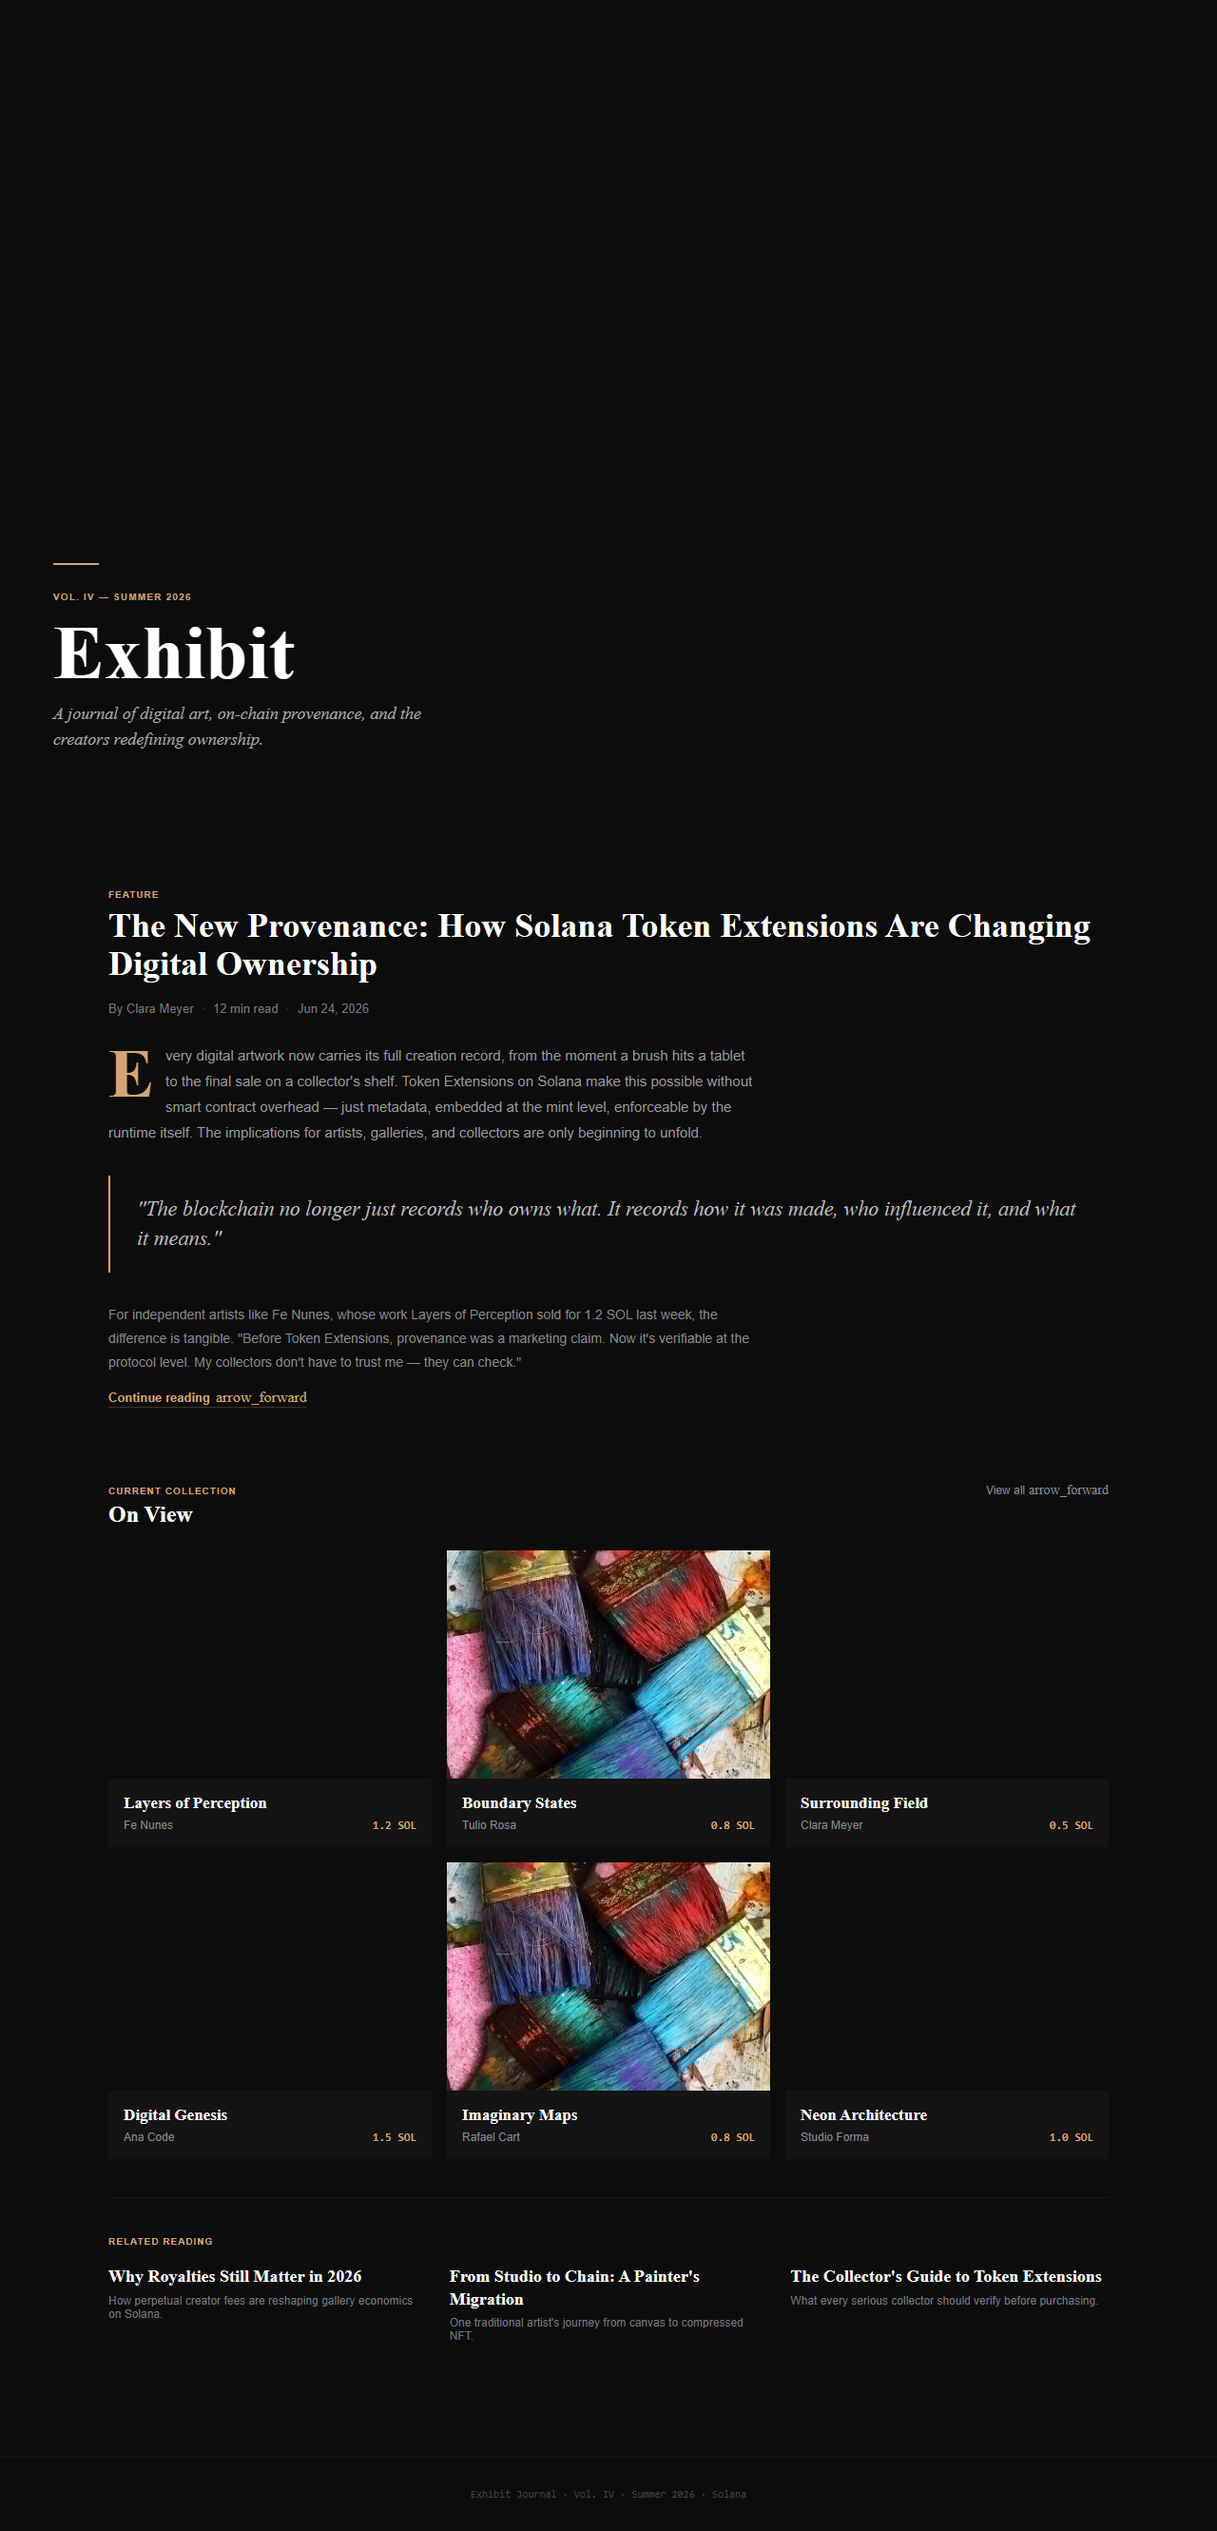
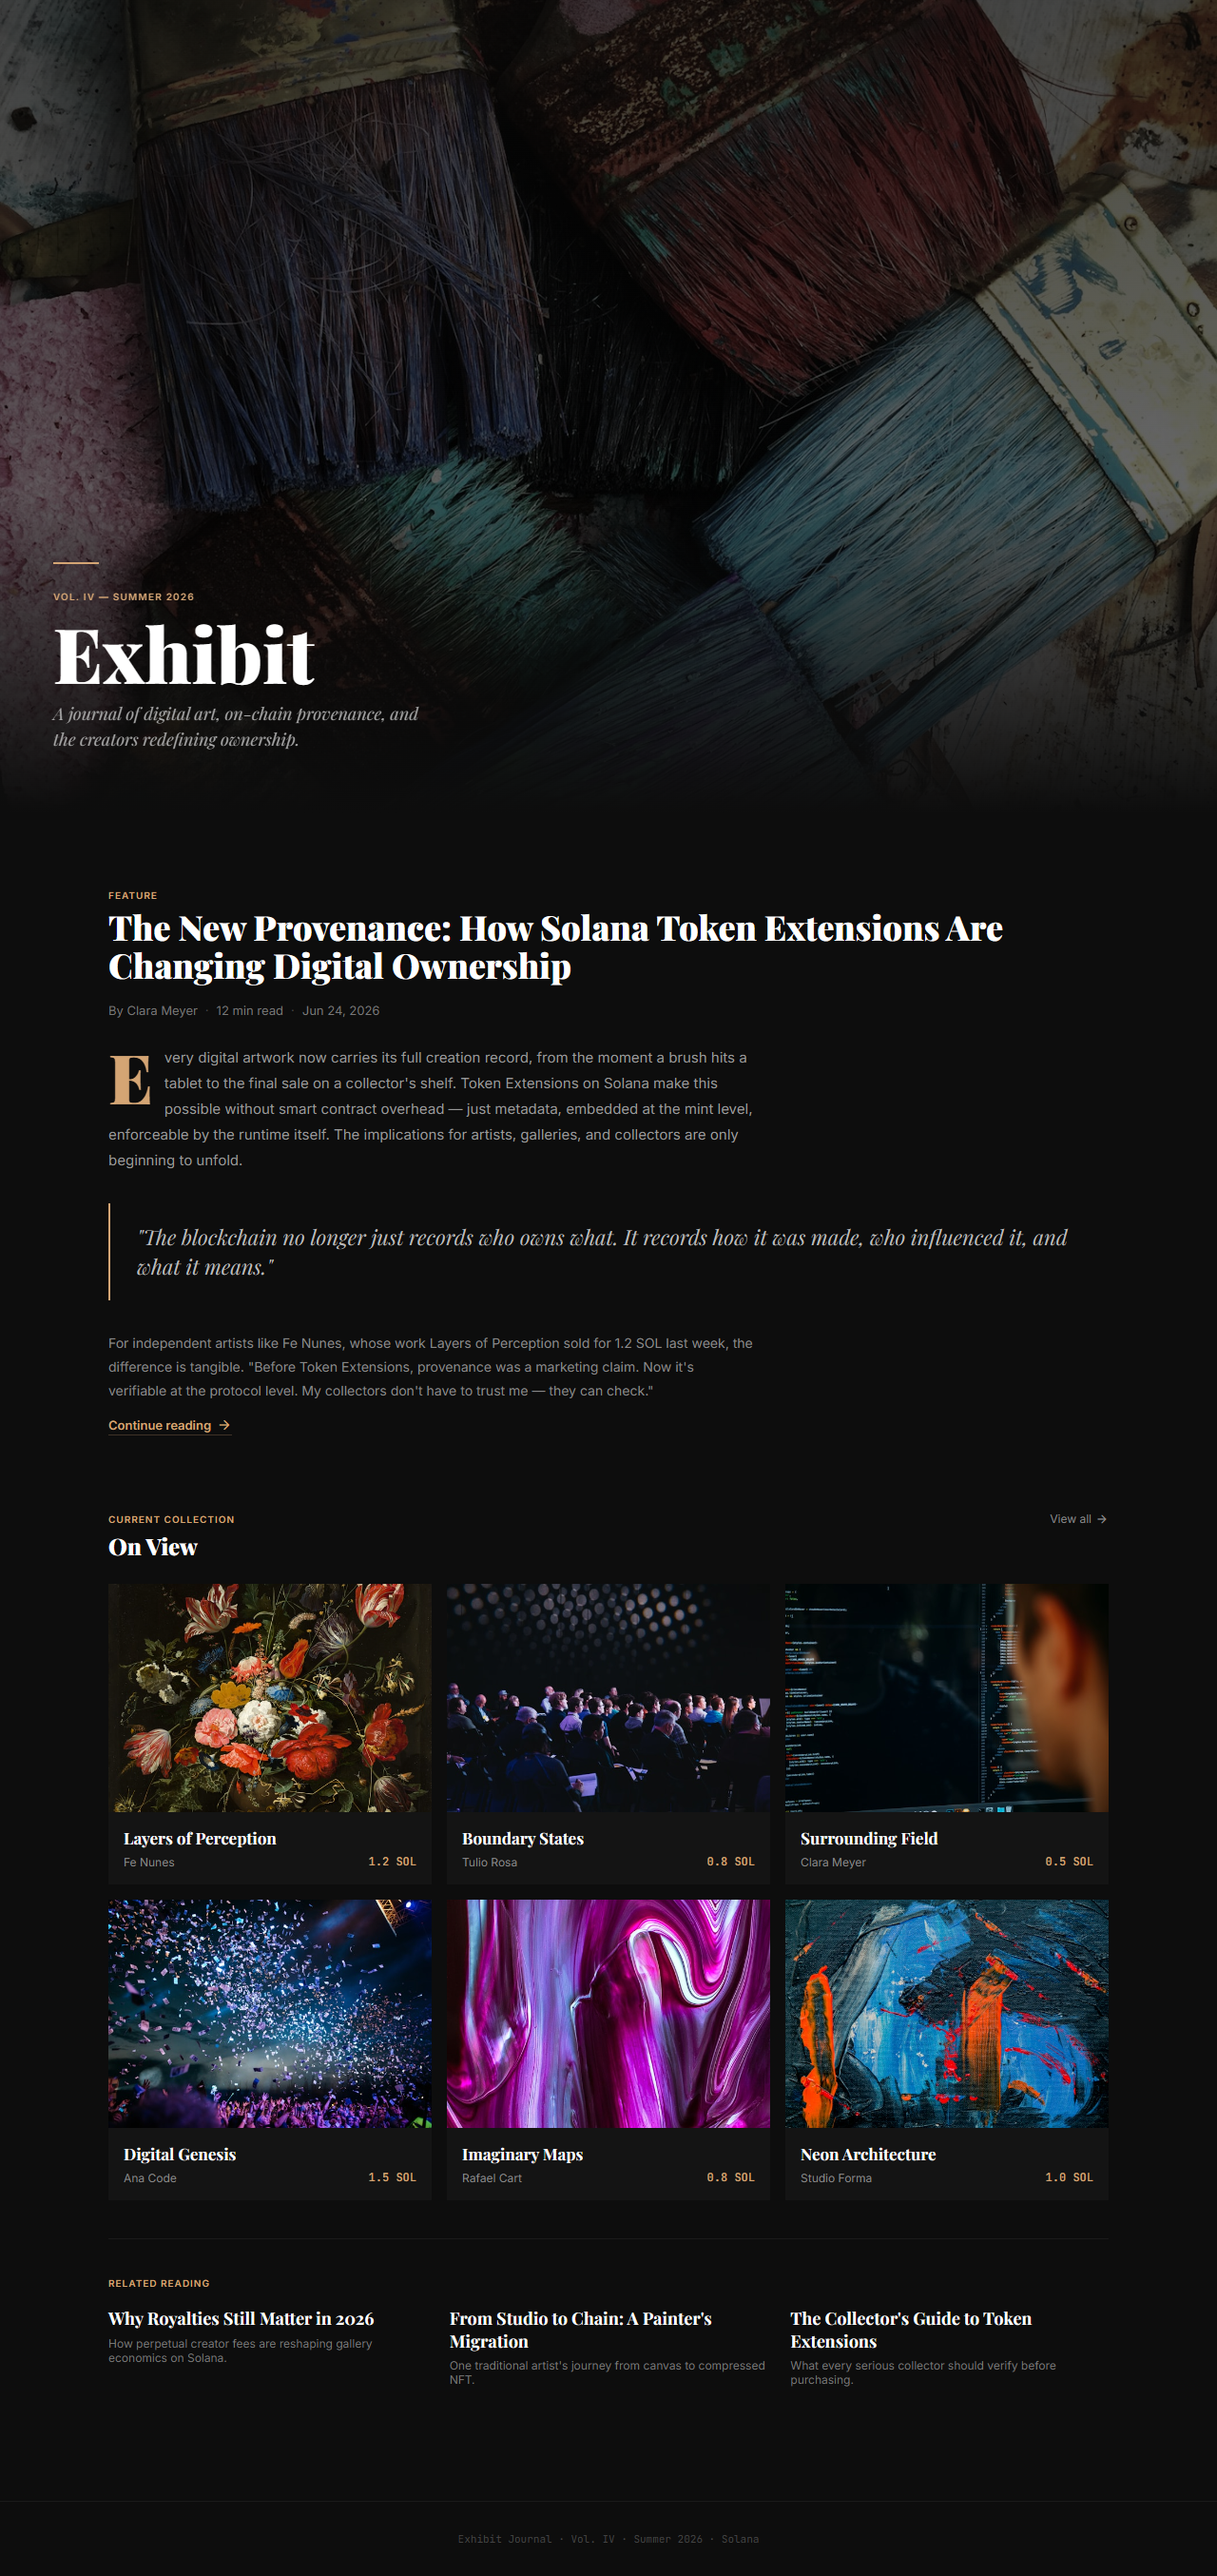
fix: CSS attribute artifacts in swap/wave, image diversity in exhibit
- swap.html: merged duplicate style/class attributes on Lines 119 & 204
- wave.html: merged duplicate style attributes on Line 187
- exhibit.html: 7 unique Unsplash images (was 3 reused across 7 slots)
  Added verified IDs: photo-1540575467063, photo-1492684223066,
  photo-1549490349, photo-1536924940846
- Regenerated all 5 preview screenshots via Puppeteer
- Fixed capture-screenshots.js arg parsing for MSYS compatibility

diff --git a/examples/exhibit.html b/examples/exhibit.html
@@ -74,7 +74,7 @@ img{display:block;max-width:100%}
       </div>
 
       <div class="article-card fade-up">
-        <img src="https://images.unsplash.com/photo-1460661419201-fd4cecdf8a8b?w=600&fit=crop" alt="" crossorigin="anonymous">
+        <img src="https://images.unsplash.com/photo-1540575467063-178a50c2df87?w=600&fit=crop" alt="" crossorigin="anonymous">
         <div class="caption">
           <div style="font-family:'Playfair Display',serif;font-size:17px;font-weight:700;color:#fff;margin-bottom:6px">Boundary States</div>
           <div style="display:flex;justify-content:space-between;align-items:center">
@@ -96,7 +96,7 @@ img{display:block;max-width:100%}
       </div>
 
       <div class="article-card fade-up">
-        <img src="https://images.unsplash.com/photo-1579783902614-a3fb3927b6a5?w=600&fit=crop" alt="" crossorigin="anonymous">
+        <img src="https://images.unsplash.com/photo-1492684223066-81342ee5ff30?w=600&fit=crop" alt="" crossorigin="anonymous">
         <div class="caption">
           <div style="font-family:'Playfair Display',serif;font-size:17px;font-weight:700;color:#fff;margin-bottom:6px">Digital Genesis</div>
           <div style="display:flex;justify-content:space-between;align-items:center">
@@ -107,7 +107,7 @@ img{display:block;max-width:100%}
       </div>
 
       <div class="article-card fade-up">
-        <img src="https://images.unsplash.com/photo-1460661419201-fd4cecdf8a8b?w=600&fit=crop" alt="" crossorigin="anonymous">
+        <img src="https://images.unsplash.com/photo-1549490349-8643362247b5?w=600&fit=crop" alt="" crossorigin="anonymous">
         <div class="caption">
           <div style="font-family:'Playfair Display',serif;font-size:17px;font-weight:700;color:#fff;margin-bottom:6px">Imaginary Maps</div>
           <div style="display:flex;justify-content:space-between;align-items:center">
@@ -118,7 +118,7 @@ img{display:block;max-width:100%}
       </div>
 
       <div class="article-card fade-up">
-        <img src="https://images.unsplash.com/photo-1511376777868-611b54f68947?w=600&fit=crop" alt="" crossorigin="anonymous">
+        <img src="https://images.unsplash.com/photo-1536924940846-227afb31e2a5?w=600&fit=crop" alt="" crossorigin="anonymous">
         <div class="caption">
           <div style="font-family:'Playfair Display',serif;font-size:17px;font-weight:700;color:#fff;margin-bottom:6px">Neon Architecture</div>
           <div style="display:flex;justify-content:space-between;align-items:center">

diff --git a/scripts/capture-screenshots.js b/scripts/capture-screenshots.js
@@ -1,0 +1,52 @@
+// Capture screenshots of all HTML pages in a directory using Puppeteer.
+// Usage: node scripts/capture-screenshots.js [directory] [--server]
+//   --server mode: pages served via localhost (use when pages have external resources)
+//   file:// mode (default): pages loaded directly from disk
+// Requires: npm install puppeteer
+
+const puppeteer = require('puppeteer');
+const path = require('path');
+const fs = require('fs');
+
+const EXAMPLES_DIR = process.argv.slice(2).find(a => !a.startsWith('--')) || '.';
+const USE_SERVER = process.argv.includes('--server');
+const BASE_URL = USE_SERVER ? (process.env.BASE_URL || 'http://localhost:8765') : null;
+const VIEWPORT = { width: 1280, height: 900 };
+
+(async () => {
+  const files = fs.readdirSync(EXAMPLES_DIR).filter(f => f.endsWith('.html'));
+  if (!files.length) { console.log('No HTML files found'); return; }
+
+  const browser = await puppeteer.launch({ headless: 'new', args: ['--no-sandbox'] });
+  console.log(`Capturing ${files.length} pages (${USE_SERVER ? 'server' : 'file'} mode)...`);
+
+  for (const name of files) {
+    const base = name.replace('.html', '');
+    const page = await browser.newPage();
+    await page.setViewport(VIEWPORT);
+
+    let url;
+    if (USE_SERVER) {
+      url = `${BASE_URL}/${name}`;
+    } else {
+      url = `file:///${path.resolve(EXAMPLES_DIR, name).replace(/\\/g, '/')}`;
+    }
+
+    try {
+      // Use domcontentloaded for faster load; networkidle0 can hang on external fonts
+      await page.goto(url, { waitUntil: 'domcontentloaded', timeout: 30000 });
+      // Extra wait for fonts, CSS animations, and external images
+      await new Promise(r => setTimeout(r, 2000));
+    } catch (e) {
+      console.warn(`  WARN ${name}: ${e.message}`);
+    }
+
+    const outPath = path.join(EXAMPLES_DIR, `${base}-preview.png`);
+    await page.screenshot({ path: outPath, fullPage: true });
+    console.log(`  OK ${base}-preview.png`);
+    await page.close();
+  }
+
+  await browser.close();
+  console.log('Done');
+})().catch(e => { console.error(e); process.exit(1); });

diff --git a/examples/swap.html b/examples/swap.html
@@ -115,7 +115,7 @@ body{font-family:'Inter',sans-serif;background:#070b14;color:#e0e8f0;min-height:
 
     <!-- Pairs List -->
     <div style="flex:1;min-width:0">
-      <div style="display:flex;align-items:center;justify-content:space-between;margin-bottom:20px" class="fade-up" style="animation-delay:.2s">
+      <div class="fade-up" style="display:flex;align-items:center;justify-content:space-between;margin-bottom:20px;animation-delay:.2s">
         <h2 style="font-size:16px;font-weight:700;color:#fff">Live Pairs</h2>
         <span style="font-size:11px;color:#667;font-family:'JetBrains Mono',monospace">5 markets</span>
       </div>
@@ -201,7 +201,7 @@ body{font-family:'Inter',sans-serif;background:#070b14;color:#e0e8f0;min-height:
   </div>
 
   <!-- Stats Bar -->
-  <div class="glass" style="display:flex;gap:40px;padding:20px 28px;margin-top:40px;justify-content:center;flex-wrap:wrap;font-family:'JetBrains Mono',monospace;font-size:12px;color:#667" class="fade-up" style="animation-delay:.55s">
+  <div class="glass fade-up" style="display:flex;gap:40px;padding:20px 28px;margin-top:40px;justify-content:center;flex-wrap:wrap;font-family:'JetBrains Mono',monospace;font-size:12px;color:#667;animation-delay:.55s">
     <div>Routes: <span style="color:#00d4ff;margin-left:6px">Jupiter · Raydium · Orca · OpenBook · Meteora DLMM</span></div>
     <div style="width:1px;background:rgba(255,255,255,.06)"></div>
     <div>Network: <span style="color:#00d4ff;margin-left:6px">Solana Mainnet</span></div>

diff --git a/examples/wave.html b/examples/wave.html
@@ -184,7 +184,7 @@ body{font-family:'Inter',sans-serif;background:#fafaf9;color:#1a1a1a;min-height:
   </div>
 
   <!-- Bottom CTA -->
-  <div style="margin-top:40px;display:flex;gap:16px;flex-wrap:wrap" class="fade-up" style="animation-delay:.4s">
+  <div class="fade-up" style="margin-top:40px;display:flex;gap:16px;flex-wrap:wrap;animation-delay:.4s">
     <button class="brutal" style="background:#c4ff0e;padding:16px 32px;font-family:'Space Grotesk',sans-serif;font-weight:700;font-size:16px;cursor:pointer;border:3px solid #1a1a1a">
       SUBMIT YOUR SOUNDS →
     </button>
